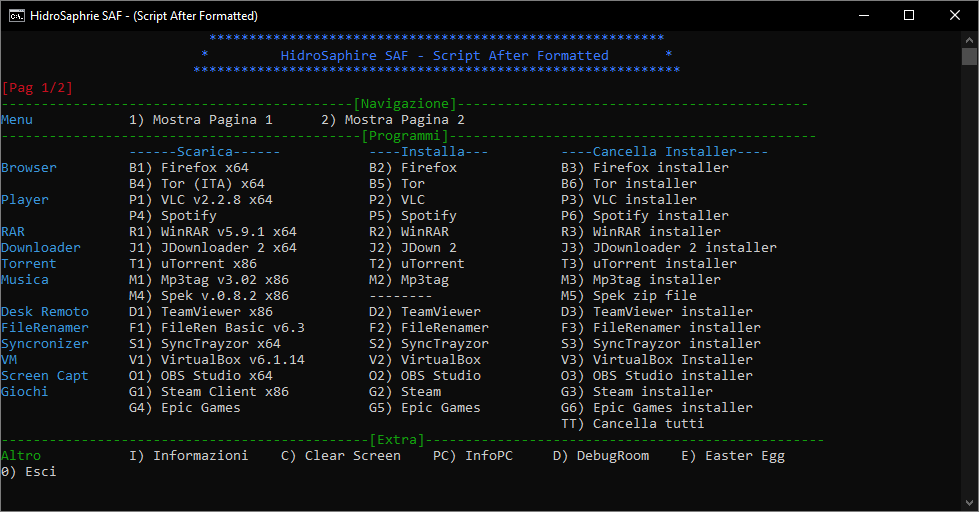
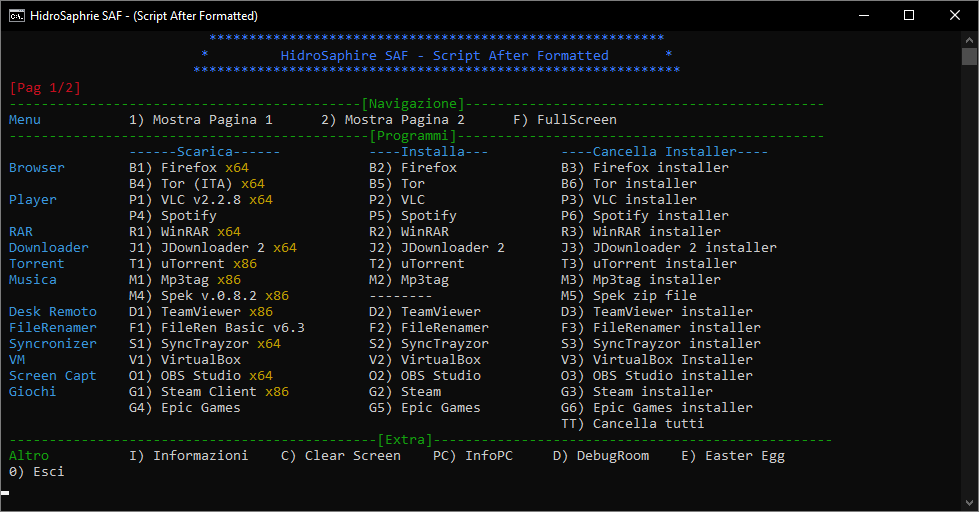
v.0.4.2 - Gigant Prolemur
Add color to architecture (x86/x64) in menu
Fix some info of Menu

diff --git a/CHANGELOG.md b/CHANGELOG.md
@@ -1,4 +1,5 @@
 ## Version List
+ - v.0.4.2 - Gigant Prolemur
  - v.0.4.1 - Gigant Chimpanzee
  - v.0.4.0 - Gigant Kangaroo
  - v.0.3.4 - Dancing Magpie
@@ -26,6 +27,10 @@
  - v.0.0.1 - Sparkling Atom
 
 ## Changelog
+### v.0.4.2 - Gigant Prolemur
++ Add color to architecture (x86/x64) in menu
++ Fix some info of Menu
+
 ### v.0.4.1 - Gigant Chimpanzee
 + Add Minimize functionality when you are in "FullScreen Mode"
 + Bugfix (in FullScreen Mode)
